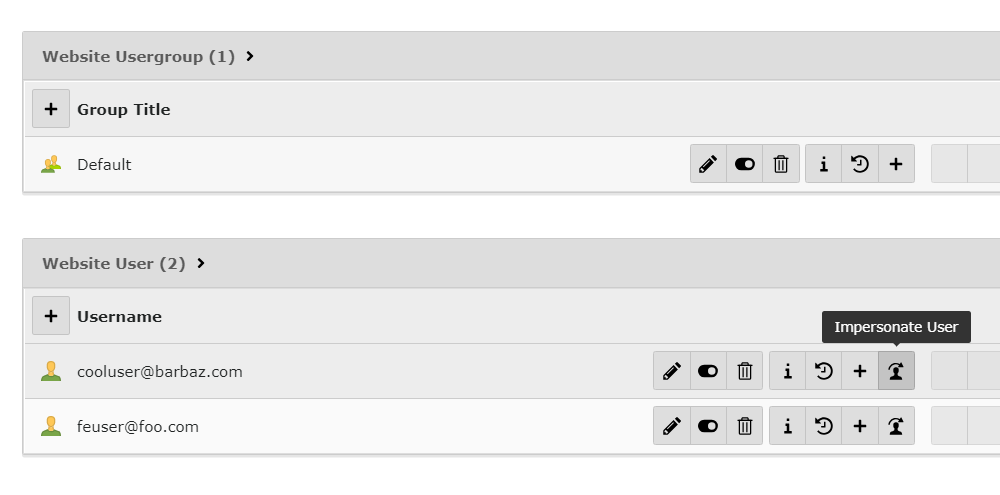
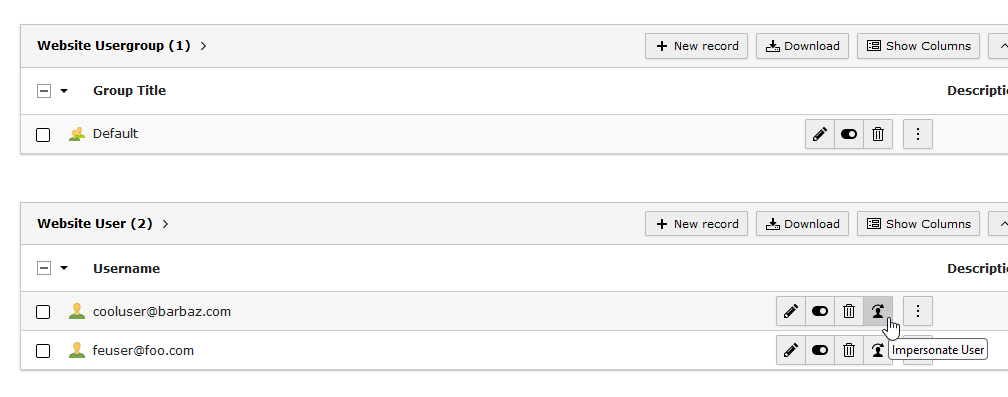
[WIP][TASK] makes extension TYPO3 v12 compatible [TASK] updates FrontendLoginController -> switch to PreviewUriBuilder [TASK] updates README accordingly [CLEANUP] updates file formatting by cs-fixer and adds phpstan checks

diff --git a/Classes/Controller/FrontendLoginController.php b/Classes/Controller/FrontendLoginController.php
@@ -1,4 +1,5 @@
 <?php
+
 namespace ChristianEssl\Impersonate\Controller;
 
 /***
@@ -15,12 +16,11 @@ namespace ChristianEssl\Impersonate\Controller;
 use ChristianEssl\Impersonate\Exception\NoUserIdException;
 use ChristianEssl\Impersonate\Utility\ConfigurationUtility;
 use ChristianEssl\Impersonate\Utility\VerificationUtility;
+use Doctrine\DBAL\Exception;
 use Psr\Http\Message\ResponseInterface;
 use Psr\Http\Message\ServerRequestInterface;
-use TYPO3\CMS\Backend\Utility\BackendUtility;
+use TYPO3\CMS\Backend\Routing\PreviewUriBuilder;
 use TYPO3\CMS\Core\Http\RedirectResponse;
-use TYPO3\CMS\Core\Routing\UnableToLinkToPageException;
-use TYPO3\CMS\Core\Utility\GeneralUtility;
 
 /**
  * Handles logging in a frontend user with the given uid
@@ -33,27 +33,27 @@ class FrontendLoginController
      *
      * @return RedirectResponse
      * @throws NoUserIdException
-     * @throws UnableToLinkToPageException
+     * @throws Exception
      */
     public function loginAction(ServerRequestInterface $request): ResponseInterface
     {
         $uid = (int)$request->getQueryParams()['uid'];
 
         if (!empty($uid)) {
-            $additionalGetVars = GeneralUtility::implodeArrayForUrl('tx_impersonate', [
-                'timeout' => $timeout = time() + 60,
-                'user' => $user = (int)$request->getQueryParams()['uid'],
-                'verification' => VerificationUtility::buildVerificationHash($timeout, $user)
-            ]);
             $pageUid = ConfigurationUtility::getRedirectPageId();
-            $previewUrl = BackendUtility::getPreviewUrl(
-                $pageUid,
-                '',
-                null,
-                '',
-                '',
-                $additionalGetVars
-            );
+            $additionalGetVars = [
+                'tx_impersonate' => [
+                    'timeout' => $timeout = time() + 60,
+                    'user' => $user = (int)$request->getQueryParams()['uid'],
+                    'verification' => VerificationUtility::buildVerificationHash(
+                        $timeout,
+                        $user
+                    ),
+                ],
+            ];
+            $previewUrl = (string)PreviewUriBuilder::create($pageUid)
+                                                   ->withAdditionalQueryParameters($additionalGetVars)
+                                                   ->buildUri();
 
             return new RedirectResponse($previewUrl);
         }

diff --git a/Classes/Utility/ConfigurationUtility.php b/Classes/Utility/ConfigurationUtility.php
@@ -1,4 +1,5 @@
 <?php
+
 namespace ChristianEssl\Impersonate\Utility;
 
 /***
@@ -12,6 +13,7 @@ namespace ChristianEssl\Impersonate\Utility;
  *
  ***/
 
+use Doctrine\DBAL\Exception;
 use TYPO3\CMS\Core\Database\ConnectionPool;
 use TYPO3\CMS\Core\Database\Query\Restriction\DeletedRestriction;
 use TYPO3\CMS\Core\Database\Query\Restriction\HiddenRestriction;
@@ -24,8 +26,11 @@ use TYPO3\CMS\Extbase\Configuration\BackendConfigurationManager;
  */
 class ConfigurationUtility
 {
-
-    public static function getRedirectPageId()
+    /**
+     * @return int
+     * @throws Exception
+     */
+    public static function getRedirectPageId(): int
     {
         $configurationManager = GeneralUtility::makeInstance(BackendConfigurationManager::class);
         $typoScriptService = GeneralUtility::makeInstance(TypoScriptService::class);
@@ -50,13 +55,14 @@ class ConfigurationUtility
      *
      * @return bool
      */
-    protected static function redirectPageIdExists($configuration)
+    protected static function redirectPageIdExists($configuration): bool
     {
         return isset($configuration['settings']['loginRedirectPid']) && $configuration['settings']['loginRedirectPid'] > 0;
     }
 
     /**
-     * @return integer
+     * @return int
+     * @throws Exception
      */
     public static function getRootPageId(): int
     {
@@ -76,11 +82,12 @@ class ConfigurationUtility
                 $queryBuilder->expr()->eq('is_siteroot', $queryBuilder->createNamedParameter(1, \PDO::PARAM_INT))
             )
             ->orderBy('sorting')
-            ->execute()
+            ->executeQuery()
             ->fetchAssociative();
 
         if (empty($rootPage)) {
-            return 0;
+            // Early validation of root page - it must always be given
+            throw new \RuntimeException('No root page defined/ found', 1678628605);
         }
 
         return (int)$rootPage['uid'];

diff --git a/Classes/Listener/RecordListRecordActionsListener.php b/Classes/Listener/RecordListRecordActionsListener.php
@@ -1,4 +1,5 @@
 <?php
+
 namespace ChristianEssl\Impersonate\Listener;
 
 /***
@@ -13,23 +14,21 @@ namespace ChristianEssl\Impersonate\Listener;
  *
  ***/
 
+use TYPO3\CMS\Backend\RecordList\Event\ModifyRecordListRecordActionsEvent;
 use TYPO3\CMS\Backend\Routing\Exception\RouteNotFoundException;
 use TYPO3\CMS\Backend\Routing\UriBuilder;
 use TYPO3\CMS\Core\Authentication\BackendUserAuthentication;
 use TYPO3\CMS\Core\Imaging\Icon;
 use TYPO3\CMS\Core\Imaging\IconFactory;
 use TYPO3\CMS\Core\Utility\GeneralUtility;
-use TYPO3\CMS\Recordlist\Event\ModifyRecordListRecordActionsEvent;
 
 /**
  * Event listener for DatabaseRecordList, implementing the icons for impersonating a frontend user
  */
 class RecordListRecordActionsListener
 {
-
     /**
      * @param ModifyRecordListRecordActionsEvent $event
-     * @return void
      * @throws RouteNotFoundException
      */
     public function __invoke(ModifyRecordListRecordActionsEvent $event): void
@@ -41,8 +40,9 @@ class RecordListRecordActionsListener
             $event->setAction(
                 $this->addImpersonateButton($event->getRecord()),
                 'impersonate',
-                'secondary',
-                'divider'
+                'primary',
+                '',
+                'delete'
             );
         }
     }

diff --git a/Classes/Utility/VerificationUtility.php b/Classes/Utility/VerificationUtility.php
@@ -1,4 +1,5 @@
 <?php
+
 namespace ChristianEssl\Impersonate\Utility;
 
 /***
@@ -17,7 +18,6 @@ use TYPO3\CMS\Core\Authentication\BackendUserAuthentication;
 
 class VerificationUtility
 {
-
     /**
      * @param int $timeout
      * @param int $user
@@ -44,11 +44,11 @@ class VerificationUtility
     {
         if ($GLOBALS['BE_USER'] instanceof BackendUserAuthentication && $GLOBALS['BE_USER']->isAdmin()) {
             return $impersonateData['verification'] === md5(
-                    $GLOBALS['TYPO3_CONF_VARS']['SYS']['encryptionKey'] .
-                    $GLOBALS['BE_USER']->getSession()->getIdentifier() .
-                    $impersonateData['timeout'] .
-                    $impersonateData['user']
-                );
+                $GLOBALS['TYPO3_CONF_VARS']['SYS']['encryptionKey'] .
+                $GLOBALS['BE_USER']->getSession()->getIdentifier() .
+                $impersonateData['timeout'] .
+                $impersonateData['user']
+            );
         }
         return false;
     }

diff --git a/ext_emconf.php b/ext_emconf.php
@@ -1,4 +1,6 @@
-<?php /** @noinspection PhpUndefinedVariableInspection */
+<?php
+
+/** @noinspection PhpUndefinedVariableInspection */
 
 /***************************************************************
  * Extension Manager/Repository config file for ext: "impersonate"
@@ -8,16 +10,16 @@ $EM_CONF[$_EXTKEY] = [
     'title' => 'Impersonate',
     'description' => 'Impersonate frontend users from inside the TYPO3 Backend.',
     'category' => 'misc',
-    'author' => 'Christian Eßl',
-    'author_email' => 'indy.essl@gmail.com',
+    'author' => 'Christian Eßl, Axel Böswetter',
+    'author_email' => 'indy.essl@gmail.com, boeswetter@portrino.de',
     'state' => 'stable',
     'uploadfolder' => 0,
     'createDirs' => '',
     'clearCacheOnLoad' => 0,
-    'version' => '2.0.0',
+    'version' => '2.1.0',
     'constraints' => [
         'depends' => [
-            'typo3' => '11.5.0-11.99.99',
+            'typo3' => '12.0.0-12.99.99',
         ],
         'conflicts' => [],
         'suggests' => [],

diff --git a/Classes/Authentication/AuthService.php b/Classes/Authentication/AuthService.php
@@ -1,15 +1,20 @@
 <?php
+
 namespace ChristianEssl\Impersonate\Authentication;
 
 use ChristianEssl\Impersonate\Utility\VerificationUtility;
+use Doctrine\DBAL\Exception;
 use TYPO3\CMS\Core\Authentication\AuthenticationService;
 use TYPO3\CMS\Core\Database\ConnectionPool;
 use TYPO3\CMS\Core\Utility\GeneralUtility;
 
 class AuthService extends AuthenticationService
 {
-
-    public function getUser()
+    /**
+     * @return array<string, mixed>|false User array or FALSE
+     * @throws Exception
+     */
+    public function getUser(): array|bool
     {
         $uid = (int)GeneralUtility::_GET('tx_impersonate')['user'];
         $queryBuilder = GeneralUtility::makeInstance(ConnectionPool::class)
@@ -22,7 +27,7 @@ class AuthService extends AuthenticationService
                 $queryBuilder->createNamedParameter($uid, \PDO::PARAM_INT)
             ));
 
-        return $queryBuilder->execute()->fetchAssociative();
+        return $queryBuilder->executeQuery()->fetchAssociative();
     }
 
     /**

diff --git a/Classes/Middleware/FrontendUserAuthenticator.php b/Classes/Middleware/FrontendUserAuthenticator.php
@@ -1,4 +1,5 @@
 <?php
+
 namespace ChristianEssl\Impersonate\Middleware;
 
 /***
@@ -25,10 +26,8 @@ use TYPO3\CMS\Core\Utility\ExtensionManagementUtility;
  */
 class FrontendUserAuthenticator implements MiddlewareInterface
 {
-
     public function process(ServerRequestInterface $request, RequestHandlerInterface $handler): ResponseInterface
     {
-
         $impersonateData = $request->getQueryParams()['tx_impersonate'] ?? [];
         if (isset($impersonateData['timeout'], $impersonateData['user'], $impersonateData['verification'])
             && $impersonateData['timeout'] > time()
@@ -53,8 +52,8 @@ class FrontendUserAuthenticator implements MiddlewareInterface
 
             $GLOBALS['TYPO3_CONF_VARS']['SVCONF']['auth'] = [
                 'setup' => [
-                    'FE_alwaysFetchUser' => true
-                ]
+                    'FE_alwaysFetchUser' => true,
+                ],
             ];
         }
 

diff --git a/Configuration/Backend/Routes.php b/Configuration/Backend/Routes.php
@@ -17,6 +17,6 @@
 return [
     'impersonate_frontendlogin' => [
         'path' => '/impersonate/login',
-        'target' => \ChristianEssl\Impersonate\Controller\FrontendLoginController::class . '::loginAction'
-    ]
+        'target' => \ChristianEssl\Impersonate\Controller\FrontendLoginController::class . '::loginAction',
+    ],
 ];

diff --git a/Configuration/TCA/Overrides/sys_template.php b/Configuration/TCA/Overrides/sys_template.php
@@ -1,8 +1,8 @@
 <?php
+
 defined('TYPO3') || die();
 
 (function () {
-
     $extensionKey = 'impersonate';
 
     \TYPO3\CMS\Core\Utility\ExtensionManagementUtility::addStaticFile(
@@ -10,5 +10,4 @@ defined('TYPO3') || die();
         'Configuration/TypoScript',
         'Impersonate'
     );
-
 })();

diff --git a/Classes/Exception/NoAdminUserException.php b/Classes/Exception/NoAdminUserException.php
@@ -1,4 +1,5 @@
 <?php
+
 namespace ChristianEssl\Impersonate\Exception;
 
 /***
@@ -14,5 +15,4 @@ namespace ChristianEssl\Impersonate\Exception;
 
 class NoAdminUserException extends \Exception
 {
-
 }

diff --git a/Classes/Exception/NoUserIdException.php b/Classes/Exception/NoUserIdException.php
@@ -1,4 +1,5 @@
 <?php
+
 namespace ChristianEssl\Impersonate\Exception;
 
 /***
@@ -14,5 +15,4 @@ namespace ChristianEssl\Impersonate\Exception;
 
 class NoUserIdException extends \Exception
 {
-
 }

diff --git a/Build/php-cs-fixer.php b/Build/php-cs-fixer.php
@@ -1,0 +1,5 @@
+<?php
+
+$config = \TYPO3\CodingStandards\CsFixerConfig::create();
+$config->getFinder()->exclude(['var'])->in(__DIR__ . '/..');
+return $config;
